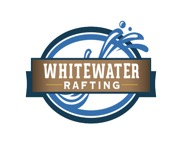
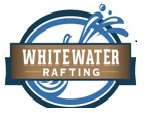
trips.html

diff --git a/wwr/trips.html b/wwr/trips.html
@@ -22,7 +22,7 @@
     <header>
       <nav class="navbar">
         <div class="logo-box">
-          <img src="images/Picture1.jpg" alt="Logo" width="150" height="150" />
+          <img src="images/Picture1.jpg" alt="Logo"/>
         </div>
 
         <ul class="nav-links">
@@ -82,24 +82,49 @@
     </section>
 
     <div class="testimony">
-      <h1>Amazing Adventure Experience Exploring Nature</h1>
+      <h1>Amazing Adventure Experience!</h1>
     </div>
 
     <div class="text-background">
       <p>
-        Customer experience in water rafting adventures is shaped by several striking elements that create memorable moments. One of the most significant aspects is the thrill and excitement that comes with navigating through challenging rapids. Each bend in the river brings a new surge of adrenaline, transforming a simple ride into an exhilarating adventure. This sense of adventure not only captivates participants but also fosters a deep connection to the activity, making them eager to return.</p>
+        Customer experience in water rafting adventures is shaped by several striking elements that create memorable moments. Each bend in the river brings a new surge of adrenaline, transforming a simple ride into an exhilarating adventure.</p>
         <br>
-        <p>Safety is another crucial factor that enhances the customer experience. Leading rafting companies prioritize thorough safety protocols, providing guests with top-notch gear and comprehensive briefings before hitting the water. Knowing that they are in skilled hands allows participants to fully immerse themselves in the adventure without lingering worries. This commitment to safety not only reassures customers but also builds lasting trust in the company.</p>
+        <p>The natural beauty encountered during a rafting trip further elevates the experience. Participants are often surrounded by breathtaking landscapes—towering mountains, lush forests, and sparkling waters.</p>
         <br>
-        <p>The natural beauty encountered during a rafting trip further elevates the experience. Participants are often surrounded by breathtaking landscapes—towering mountains, lush forests, and sparkling waters. This scenic backdrop allows adventurers to disconnect from their daily routines and appreciate the serenity of nature. Such stunning vistas become an integral part of the experience, leaving lasting impressions and inspiring a sense of wonder.</p>
-        <br>
-        <p>Moreover, the social dynamic of water rafting plays a pivotal role in shaping customer experiences. Whether rafting with friends, family, or fellow adventurers, the shared challenges and laughter create strong bonds among participants. The teamwork required to navigate rapids fosters a unique camaraderie that enhances the overall enjoyment, making it not just an adventure, but also a platform for building lasting relationships.</p>
-        <br>
-        <p>Lastly, exceptional customer service significantly influences overall satisfaction. Knowledgeable and engaging guides who share stories and insights about the river enrich the journey. All of these we offer our customers. whereby customers leave with a sense of fulfillment and appreciation, it elevates their entire experience, encouraging them to recommend the adventure to others.
-      </p>
+        <p>Social dynamic of water rafting plays a pivotal role in shaping customer experiences. Whether rafting with friends, family, or fellow adventurers, the shared challenges and laughter create strong bonds among participants. The teamwork required to navigate rapids fosters a unique camaraderie that enhances the overall enjoyment, making it not just an adventure, but also a platform for building lasting relationships.</p>
     </div>
 
     <h1 class="info">Upcoming Trips</h1>
+
+    <div class="blog-banner">
+      <img src="images/Jabi-Abuja.jpg" alt="Jabi-Lake" />
+    </div>
+
+    <p class="bonus-1">
+      <strong>General Hangout</strong><br>Dec. 24th 2024<br>40 mins.<br /><a href="./book.html" class="btn btn-warning btn-lg"
+        >Book Now</a
+      >
+    </p>
+    <div class="blog-banner">
+      <img src="images/Jabi-Abuja.jpg" alt="Jabi-Lake" />
+    </div>
+
+    <p class="bonus-2">
+      <strong>Couples Date</strong><br>Dec. 25th 2024<br>40 mins.<br/><a href="./book.html" class="btn btn-warning btn-lg"
+        >Book Now</a
+      >
+    </p>
+    <div class="blog-banner">
+      <img src="images/Jabi-Abuja.jpg" alt="Jabi-Lake" />
+    </div>
+
+    <p class="bonus-3">
+      <strong>Family Hangout</strong><br>Dec. 25th 2024<br>40 mins.<br /><a href="./book.html" class="btn btn-warning btn-lg"
+        >Book Now</a
+      >
+    </p>
+   
+    
 
 
 

diff --git a/wwr/styles/trip.css b/wwr/styles/trip.css
@@ -1,8 +1,8 @@
 :root {
-  --primary-color: #538ddf;
+  --primary-color: rgb(83, 141, 223);
   --secondary-color: #ffffff;
-  --accent1-color: #4f495a;
-  --accent2-color: #344055;
+  --accent1-color: rgb(79, 73, 90);
+  --accent2-color: rgb(52, 64, 85);
   --gradient: linear-gradient(45deg, var(--blue-color), var(--white-color));
   font-family: "Roboto", san-serif;
 }
@@ -29,7 +29,7 @@ body {
 header {
   background-color: whitesmoke;
   color: white;
-  padding: 10px 20px;
+  padding: 10px 10px;
 }
 
 .navbar {
@@ -109,7 +109,7 @@ li a:hover:not(.active) {
 }
 
 .overlay-text a {
-  background-color: #b71c1c;
+  background-color: #020101;
   color: white;
   padding: 0.5rem;
   text-decoration: none;
@@ -119,15 +119,19 @@ li a:hover:not(.active) {
 }
 
 .overlay-text {
-  justify-self: center;
+  justify-self: right;
   align-self: center;
   color: white;
   /* font-family: "Trebuchet MS", sans-serif; */
-  font-size: 2rem;
+  font-size: 1em;
   text-align: right;
   /* z-index: 6; */
-  margin-top: -100px;
+  margin-top: -78px;
   padding-right: 40px;
+}
+
+.overlay-text a:hover:not(.active) {
+  background-color: rgba(57, 53, 53, 0.8);
 }
 
 .highlight {
@@ -192,7 +196,7 @@ li a:hover:not(.active) {
 }
 
 .text-background {
-  background-color: black;
+  background: -webkit-linear-gradient(right,black, #344055);
   margin: 20px;
   color: #fff;
   padding: 60px 100px 40px 100px;
@@ -211,6 +215,116 @@ li a:hover:not(.active) {
   padding: 20px;
 }
 
+.blog-banner img {
+  /* margin:0 0 60px; */
+  width: 100%;
+  height: 400px;
+  position: absolute;
+  z-index: -4;
+  margin-bottom: 100px;
+
+  /* margin: 0px 0px 40px; */
+}
+
+.bonus-1 {
+  display: block;
+  max-width: 400px;
+  max-height: 400px;
+  background-color: hsla(0, 0%, 0%, 0.7);
+  color: white;
+  z-index: 4;
+  margin-left: 800px;
+  margin-top: 80px;
+  padding: 30px;
+  font-size: 2.3rem;
+  /* justify-content: center; */
+  text-align: center;
+}
+
+
+.bonus-1 a {
+  margin-left: 10px;
+  padding: 1rem;
+  text-decoration: none;
+  color: rgb(255, 255, 255);
+  background-color: #344055;
+  font-weight: bold;
+  border-radius: 15px;
+  box-shadow: 1px 1px 10px rgb(41, 41, 41);
+  font-size: 1rem;
+  text-align: center;
+}
+
+.bonus-1 a:hover {
+  background-color: rgba(52, 64, 85, 0.5);
+}
+
+
+.bonus-2 {
+  display: block;
+  max-width: 400px;
+  max-height: 400px;
+  background-color: rgba(0, 0, 0, 0.7);
+  color: white;
+  z-index: 4;
+  margin-left: 800px;
+  margin-top: 80px;
+  padding: 30px;
+  font-size: 2.3rem;
+  /* justify-content: center; */
+  text-align: center;
+}
+
+
+.bonus-2 a {
+  margin-left: 10px;
+  padding: 1rem;
+  text-decoration: none;
+  color: rgb(255, 255, 255);
+  background-color: rgba(197, 114, 5);
+  font-weight: bold;
+  border-radius: 15px;
+  box-shadow: 1px 1px 10px rgb(41, 41, 41);
+  font-size: 1rem;
+  text-align: center;
+}
+
+.bonus-2 a:hover {
+  background-color: rgba(52, 64, 85, 0.5);
+}
+
+.bonus-3 {
+  display: block;
+  max-width: 400px;
+  max-height: 400px;
+  background-color: rgba(0, 0, 0, 0.7);
+  color: white;
+  z-index: 4;
+  margin-left: 800px;
+  margin-top: 80px;
+  padding: 30px;
+  font-size: 2.3rem;
+  /* justify-content: center; */
+  text-align: center;
+}
+
+
+.bonus-3 a {
+  margin-left: 10px;
+  padding: 1rem;
+  text-decoration: none;
+  color: rgb(255, 255, 255);
+  background-color: rgba(7, 90, 233, 0.983);
+  font-weight: bold;
+  border-radius: 15px;
+  box-shadow: 1px 1px 10px rgb(41, 41, 41);
+  font-size: 1rem;
+  text-align: center;
+}
+
+.bonus-3 a:hover {
+  background-color: rgba(52, 64, 85, 0.5);
+}
 
 footer {
   display: flex;
